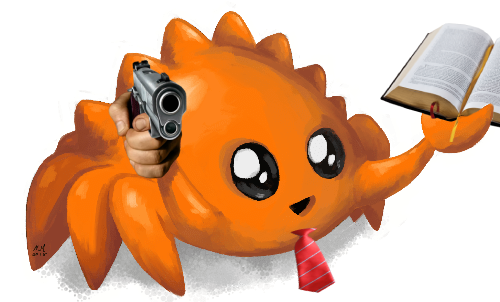
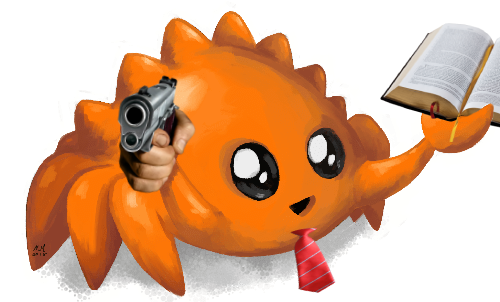
fix: flip ferris hand horizontally

Changed region(s): [[0.21, 0.1788, 0.39, 0.6556]]

diff --git a/evangelizador/README.md b/evangelizador/README.md
@@ -2,4 +2,4 @@
 
 |    Arte    |     Vista Previa   |
 |------------|--------------------|
-| ![Rustificador](https://github.com/RustLangES/arte-rustlang-es/assets/56278796/aaa84a20-4108-4c9f-9df5-ed0f71d8164f) | ![image](https://github.com/RustLangES/arte-rustlang-es/assets/56278796/538b004b-f279-4a58-bd9d-0c6da20549b0) |
+| ![Rustificador](https://github.com/RustLangES/arte-rustlang-es/blob/main/evangelizador/Rustificador.png?raw=true) | ![image](https://github.com/RustLangES/arte-rustlang-es/assets/56278796/538b004b-f279-4a58-bd9d-0c6da20549b0) |

diff --git a/README.md b/README.md
@@ -1,4 +1,4 @@
-![Rustificador](https://github.com/RustLangES/arte-rustlang-es/assets/56278796/d18bbef5-4d25-4869-a966-e891f4b1f400)
+![Rustificador](https://github.com/RustLangES/arte-rustlang-es/blob/main/evangelizador/Rustificador.png?raw=true)
 
 # Repositorio de Arte
 En este Repositorio podras encontrar todos los artes que corresponden a la comunidad de [](https://rustlanges.github.io), todos los aportes y cambios son bienvenidos
